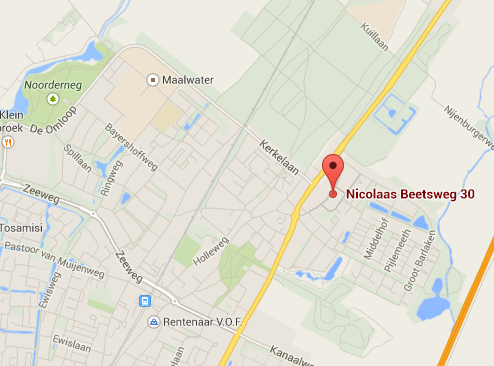
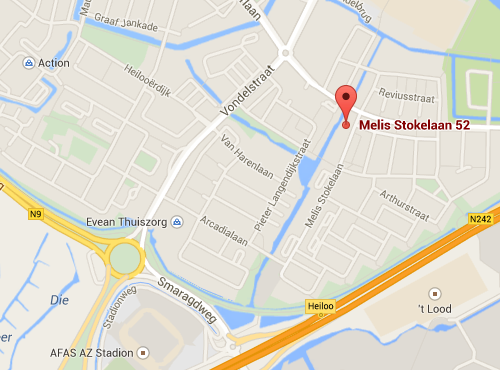
Updated with content from the online environment Removed some old work

diff --git a/css/text.css b/css/text.css
@@ -69,6 +69,9 @@ h6 {
   margin: .4em 0;
   text-transform: none; }
 
+h2 {
+  display: inline-block; }
+
 h1#title {
   text-transform: none;
   float: left;

diff --git a/cases/spotonagency.php b/cases/spotonagency.php
@@ -5,14 +5,14 @@
 	<a href="http://www.spotonagency.nl">spotonagency.nl</a>
 	<p>For my internship at Studio Stomp I was assigned to a team of two other interns to fully develop a website for Spot On Agency. Meaning the content, the design and the development over a period of two months. When I started there, there already was some progress on the project, and much of the content was decided. Only in time did I discuss the structure and content of the website.</p>
 	<figure>
-		<img src="images/cases/spotonagency/actress-desktop.jpg" alt="">
+		<img src="../images/cases/spotonagency/actress-desktop.jpg" alt="">
 		<figcaption>A nice overview on the desktop version</figcaption>
 	</figure>
 	<p>The design was partly decided at the time. A WordPress theme was chosen, but there was some trouble tweaking it to Spot On Agency's style. We came a long way, but after two weeks Michel Stomp, an employee and designer, helped us out in a major way. He took our designs and improved them greatly with some minor tweaks. During this stage I mainly did research and started setting things up for development, occasionally helping out the team with some design choices.</p>
 	<p>While developing I started learning a lot about WordPress. I had worked with WordPress before but didn't really grasp it. Now, after some reading I finally got some understanding of it. I didn't really enjoy developing a child theme (too much overrides to do), but it was pretty close to developing my own theme.</p>
 	<p>One problem that really stuck out was the reflow of content when the viewport size changed. The mobile content for the actor page was perfectly well structured, as well as its HTML. But the content went complete bonkers when the user would view the desktop or even the tablet version. There was no more logic to be found in the flow of content. Ultimately this was fixed by some CSS and jQuery (in retrospect: I could've used plain JavaScript), but I felt a bit dirty after implementing it</p>
 	<figure>
-		<img src="images/cases/spotonagency/actress-mobile.jpg" alt="">
+		<img src="../images/cases/spotonagency/actress-mobile.jpg" alt="">
 		<figcaption>The mobile version, showing the bottom of the actress' page</figcaption>
 	</figure>
 	<p>Another issue was the WordPress admin interface. There was some functionality to link the actors to the different news articles and it worked perfectly fine, but it wasn't very intuitive for the user (the owners of the website). Something that hadn't even crossed our minds in all that time, that there was another user group to be considered. It was fixed after a day of work by using a part of the great Advanced Custom Fields plugin.</p>

diff --git a/includes/header.php b/includes/header.php
@@ -4,7 +4,7 @@
 <!--<?php echo 'Copyleft ' . date('Y') . ' info(at)fpck.nl'; ?>-->
 <!--
 Hey, thanks for taking an interest in the code!
-The full code is available on GitHub and is commented to the best of my extent.
+The full code is available on GitHub (https://github.com/Fpckalk/fpck) and is commented to the best of my extent.
 Starting out developing can be pretty daunting, I hope my code can help you out a bit.
 If you're not a learning one, then I'm flattered by the interest.
 -->
@@ -13,15 +13,14 @@ If you're not a learning one, then I'm flattered by the interest.
 	<meta http-equiv="content-type" content="text/html; charset=utf-8" />
 	
 	<!-- Change when live -->
-	<base href="/git/repos/fpck/">
 
 	<title>Frank Kalk - Portfolio</title>
 	<meta name="author" content="Frank Kalk" />
 	<meta name="description" content="Frank Kalk's portfolio" />
 	
 	<meta name="viewport" content="user-scalable=no, width=device-width, initial-scale=1, maximum-scale=1">
-	<link type="text/css" rel="stylesheet" media="screen" href="css/icons.css">
-	<link type="text/css" rel="stylesheet" media="screen" href="css/css.css">
+	<link type="text/css" rel="stylesheet" media="screen" href="../css/icons.css">
+	<link type="text/css" rel="stylesheet" media="screen" href="../css/css.css">
 	<link type="image/ico" rel="icon" href="favicon.ico" />
 
 </head>
@@ -29,7 +28,7 @@ If you're not a learning one, then I'm flattered by the interest.
 <body>
 	<div id="wrapper">
 		<header>
-			<h1 id="title"><a href="../fpck/">fpck</a></h1>
+			<h1 id="title"><a href="/">fpck</a></h1>
 			<?php
 				// Checking which page we're on, later to be used in the main menu
 
@@ -46,7 +45,7 @@ If you're not a learning one, then I'm flattered by the interest.
 			<nav id="main">
 				<ul>
 					<!-- Using the $page variable here to check if the menu item should be highlighted -->
-					<li><a class="<?php if ($page == "") { echo('active');}?>" href="../fpck/">Home</a></li>
+					<li><a class="<?php if ($page == "") { echo('active');}?>" href="/">Home</a></li>
 					<li><a class="<?php if ($page == "about") { echo('active');}?>" href="about">About</a></li>
 					<li><a class="<?php if ($page == "contact") { echo('active');}?>" href="contact">Contact</a></li>
 				</ul>

diff --git a/cases/gamergeeks.php b/cases/gamergeeks.php
@@ -8,12 +8,12 @@
 		I decided to make the whole thing in Wordpress, the well known blogging platform that is slowly turning into a content management system. This decision was based on my previous experiences and the expertise I built up with Wordpress whilst developing <a href="http://www.spotonagency.nl">spotonagency.nl</a>. Particularly the ease of use for the editors and the amount of documentation available are what did it for me.
 	</p>
 	<figure>
-		<img src="images/cases/gamergeeks/home-desktop.jpg" alt="">
+		<img src="../images/cases/gamergeeks/home-desktop.jpg" alt="">
 	</figure>
 	<p>At first it didn't seem like there were that many hurdles. Only when developing it became apparent that something as 'Add a customizable banner' would become 'Add a customizable banner consisting of three parts, sometimes two, that is fully compatible with whatever image they upload'.</p>
 	<p>It was pretty tough to develop this one as I came across a lot of things that I hadn't dealt with before. User registration for instance, something I'd never tried before on a WordPress installation. Shielding off certain areas, smooth registration, confirmation e-mails all came into play. It took some time to fully implement, and I wish it'd been easier. But it turned out nice.</p>
 	<figure>
-		<img src="images/cases/gamergeeks/101tv-mobile.jpg" alt="">
+		<img src="../images/cases/gamergeeks/101tv-mobile.jpg" alt="">
 		<figcaption>As always I enjoy the mobile websites the best for how content-driven they are</figcaption>
 	</figure>
 	<p>Styling was a bit tricky on the mobile part. I didn't specify any mobile site for the GamerGeeks, but I did develop it for a little surprise at the end. This resulted in only designing a desktop version at first, which was difficult to translate to mobile (it's usually better to go mobile first). Really had to get down and dirty to finetune a lot of elements, which unfortunately resulted in not so clean code.</p>

diff --git a/about.php b/about.php
@@ -1,21 +1,13 @@
 <?php include_once("includes/header.php") ?>
 
 <article class="single">
-	<!-- Only using sections here because there is different content available -->
-	<!-- Won't be necessary otherwise -->
-	<section>
-		<h1>Who I am</h1>
-		<figure>
-			<img src="images/dancy.gif" alt="">
-		</figure>
-		<p>So this is me. My name is Frank Kalk, currently living in The Netherlands. I like doing front-end development. My skills in front-end are: CSS2, CSS3, XHTML, HTML, PHP and finally JavaScript. I have also dabbled in D3 (Data-Driven Documents), a JavaScript library for visualizing data.</p>
-		<p>I'm also a proud owner of <a href="http://blog.fpck.nl">a blog</a>, which I update at least once a year (promise). Concerning the 'fpck' part, both on the blog and this website: they simply are my initials. I like the look of 'em.</p>
-	</section>
-	<section>
-		<h1>About this website</h1>
-		<p>The idea was simple: update my portfolio to be responsive, fast, clean and semantic. I got inspired by sites as <a href="http://www.medium.com">Medium</a> where the focus was on the content, and where I could spend a lot of time just reading.</p>
-		<p>More on how I made this website and the decisions I made are available on <a href="http://www.github.com/fpckalk/fpck">my GitHub</a>.</p>
-	</section>
+	<h1>Who I am</h1>
+	<figure>
+		<img src="images/avatar.jpg" alt="">
+		<figcaption>That's me with Captain "lookoverthere" Jones</figcaption>
+	</figure>
+	<p>So this is me. My name is Frank Kalk, currently living in The Netherlands. I develop WordPress themes and plugins.</p>
+	<p>I try to make my WordPress themes as customizable and developer friendly as possible.</p>
 </article>
 
 <?php include_once("includes/footer.php") ?>

diff --git a/index.php b/index.php
@@ -1,34 +1,7 @@
 <?php include_once("includes/header.php") ?>
 
 <aside id="welcome">
-	<p>Hello and welcome! I'm Frank, a front-end developer, and here I've showcased some of my work that I'm particularly proud of, and have written a bit about.</p>
+	<p>Hello and welcome! I'm Frank, a front-end developer.</p>
 </aside>
-
-<section>
-	<article class="case">
-		<a href="cases/spotonagency">
-			<img src="images/cases/spotonagency/thumb.jpg" alt="Spot On Agency">
-			<h1>Spot On Agency</h1>
-		</a>
-		<p>The project I worked on at my internship. Learned a lot about WordPress theme development, and the design was a dream to work with.</p>
-	</article>
-
-	<article class="case">
-		<a href="cases/gamergeeks">
-			<img src="images/cases/gamergeeks/thumb.jpg" alt="GamerGeeks">
-			<h1>GamerGeeks</h1>
-		</a>
-		<p>A website I set up for the GamerGeeks, also the first time I fully set up a WordPress theme (with the great help of the <a target="_blank" href="http://themble.com/bones/">Bones framework</a>).</p>
-	</article>
-
-	<article class="case">
-		<a href="cases/yetiland">
-			<img src="images/cases/yetiland/thumb.jpg" alt="Yetiland">
-			<h1>Yetiland</h1>
-		</a>
-		<p>The portfolio of an artist. One of the most pleasurable sites I've worked on for its simple design and unique style.</p>
-	</article>
-
-</section>
 
 <?php include_once("includes/footer.php") ?>

diff --git a/cases/yetiland.php b/cases/yetiland.php
@@ -2,8 +2,11 @@
 
 <article class="single">
 	<h1>Yetiland</h1>
-	<p>Unfortunately not online yet</p>
+	<a href="http://www.yetiland.nl">yetiland.nl</a>
 	<p>A great artist once asked the question: Frank, would thou be willing to developeth mine portfolio? And Frank did thus reply 'yes', for he was quite impressed by the artist's bitching work.</p>
+	<figure>
+		<img src="../images/cases/yetiland/home-desktop.jpg" alt="">
+	</figure>
 	<p>After becoming quite used to WordPress, this was the second full theme I made. Again with the help of the <a target="_blank" href="http://themble.com/bones/">Bones framework</a> a theme was created without any unnecessary clutter, giving me a lot of control and clarity over the theme.</p>
 	<p>It honestly was a dream to develop this website. Its basic layout was done in collaboration with the artist Sjoerd, and was perfected by him and his girlfriend both. This resulted in a design which was so elegantly simple that coding it just made a lot of sense. No special CSS exceptions, no weird elements that were out of place.</p>
 	<p>I didn't encounter any major problems along the way, pretty much a smooth ride. I am thankful for being able to work on this website.</p>

diff --git a/contact.php b/contact.php
@@ -13,8 +13,8 @@
 	</div>
 
 	<aside>
-		<a target="blank" href="https://www.google.nl/maps/place/Nicolaas+Beetsweg+30/@52.6068594,4.709467,15z/data=!4m2!3m1!1s0x47c5f80bd07b5545:0xbfae4ad6811e8c31?hl=en">
-			<img src="images/gmap.png" alt="Nicolaas Beetsweg 30">
+		<a target="blank" href="https://www.google.nl/maps/place/Melis+Stokelaan+52,+1813+DL+Alkmaar/@52.6178732,4.7556107,15z/data=!4m2!3m1!1s0x47cf57d2a026b125:0xef0bb181091813ab?hl=en">
+			<img src="images/gmap.png" alt="Melis Stokelaan 52, Alkmaar">
 			On Google Maps
 		</a>
 	</aside>

diff --git a/includes/settings.php b/includes/settings.php
@@ -3,7 +3,7 @@
 // Some settings that should be set on every page
 
 // Error Reporting, disable if live
-error_reporting(E_ALL);
+error_reporting(0);
 
 // Disable magic quotes
 ini_set('magic_quotes_gpc', 0); 
